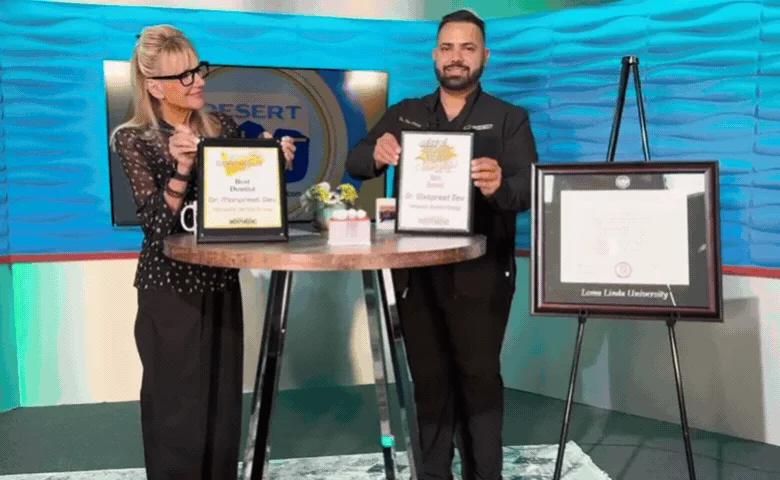
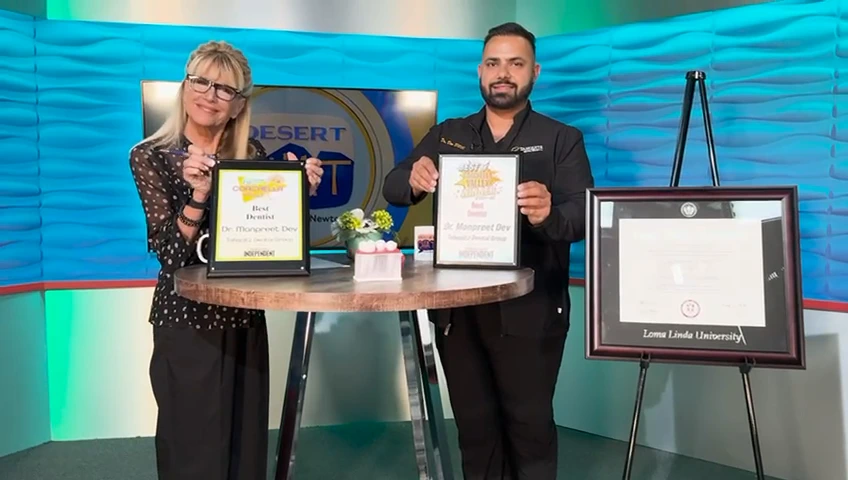
QC Edits

diff --git a/src/styles/global.css b/src/styles/global.css
@@ -1,1 +1,8 @@
 @import "tailwindcss";
+
+/* lg: starts at 1025px so Tailwind layouts switch at the same point as the scoped
+   (min-width: 1025px) rules and the header's mobile menu (max-width: 1024px) */
+/* stylelint-disable-next-line at-rule-no-unknown -- Tailwind v4 directive */
+@theme {
+  --breakpoint-lg: 64.0625rem;
+}

diff --git a/src/content/pages/index.md b/src/content/pages/index.md
@@ -15,8 +15,8 @@ pageSections:
       dentistry](/palm-springs-ca/cosmetic-dentistry/), we’re here for you.
     imageSource: /src/assets/images/home/banner.webp
     imageAlt: Tahquitz Dental Group front door with the dentists’ names on the glass
-    videoSource: /videos/home/banner-loop.mp4
-    videoPoster: /images/home/banner-loop-poster.webp
+    videoSource: ''
+    videoPoster: ''
     offersHeading: Special Offers
     offers:
       - amount: $600 Off
@@ -115,6 +115,24 @@ pageSections:
           the service has consistently been top-notch.
         authorName: Vincent
         reviewerImage: /src/assets/images/home/reviewer-vincent.webp
+      - text: >-
+          Tahquitz dental staff was very professional and transparent. Crown
+          procedure was quick and successful.
+        authorName: Eric D
+        reviewerImage: ''
+      - text: >-
+          Super friendly, super professional, super competent! I love the fact
+          that they’re local, but I love the fact more that they are really good
+          at what they do and they do it all with a smile.
+        authorName: Todd S
+        reviewerImage: ''
+      - text: >-
+          Dr. Fowobaja is very gentle and calm. Hygentist America explained
+          everything to me and left my teeth feeling amazing. Everyone I've
+          interacted with here has been lovely. Glad I found my new dentist
+          office!
+        authorName: Crystal W
+        reviewerImage: ''
     buttonSections:
       - _component: building-blocks/core-elements/button
         text: View More Reviews

diff --git a/src/content/pages/about-us/testimonials.md b/src/content/pages/about-us/testimonials.md
@@ -13,7 +13,7 @@ pageSections:
     buttonSections:
       - _component: building-blocks/core-elements/button
         text: "Read Our Google Reviews"
-        link: "https://maps.app.goo.gl/KPtLrwZPzfEXaVrv5"
+        link: "https://maps.app.goo.gl/kAiriM1AxgeoKwEa6"
         variant: primary
         size: md
         borderRadius: none
@@ -38,7 +38,7 @@ pageSections:
     buttonSections:
       - _component: building-blocks/core-elements/button
         text: "Leave Us a Google Review"
-        link: "https://maps.app.goo.gl/KPtLrwZPzfEXaVrv5"
+        link: "https://maps.app.goo.gl/kAiriM1AxgeoKwEa6"
         variant: primary
         size: md
         borderRadius: none

diff --git a/src/content/pages/palm-springs-ca/why-dental-implants.md b/src/content/pages/palm-springs-ca/why-dental-implants.md
@@ -32,8 +32,8 @@ pageSections:
     heading: "Dental Implants with Tahquitz Dental Group"
     subtext: |-
       With the many advantages of dental implants, perhaps you are considering them for yourself or for a loved one. If so, give Tahquitz Dental Group in Palm Springs a call and set up a consultation appointment. We look forward to meeting you!
-    imageSource: ""
-    imageAlt: ""
+    imageSource: "/src/assets/images/services/why-choose-dental-implants-3.webp"
+    imageAlt: "Smiling woman checking her new teeth in a hand mirror at Tahquitz Dental Group"
     imageLeft: true
     compact: false
     background: white
